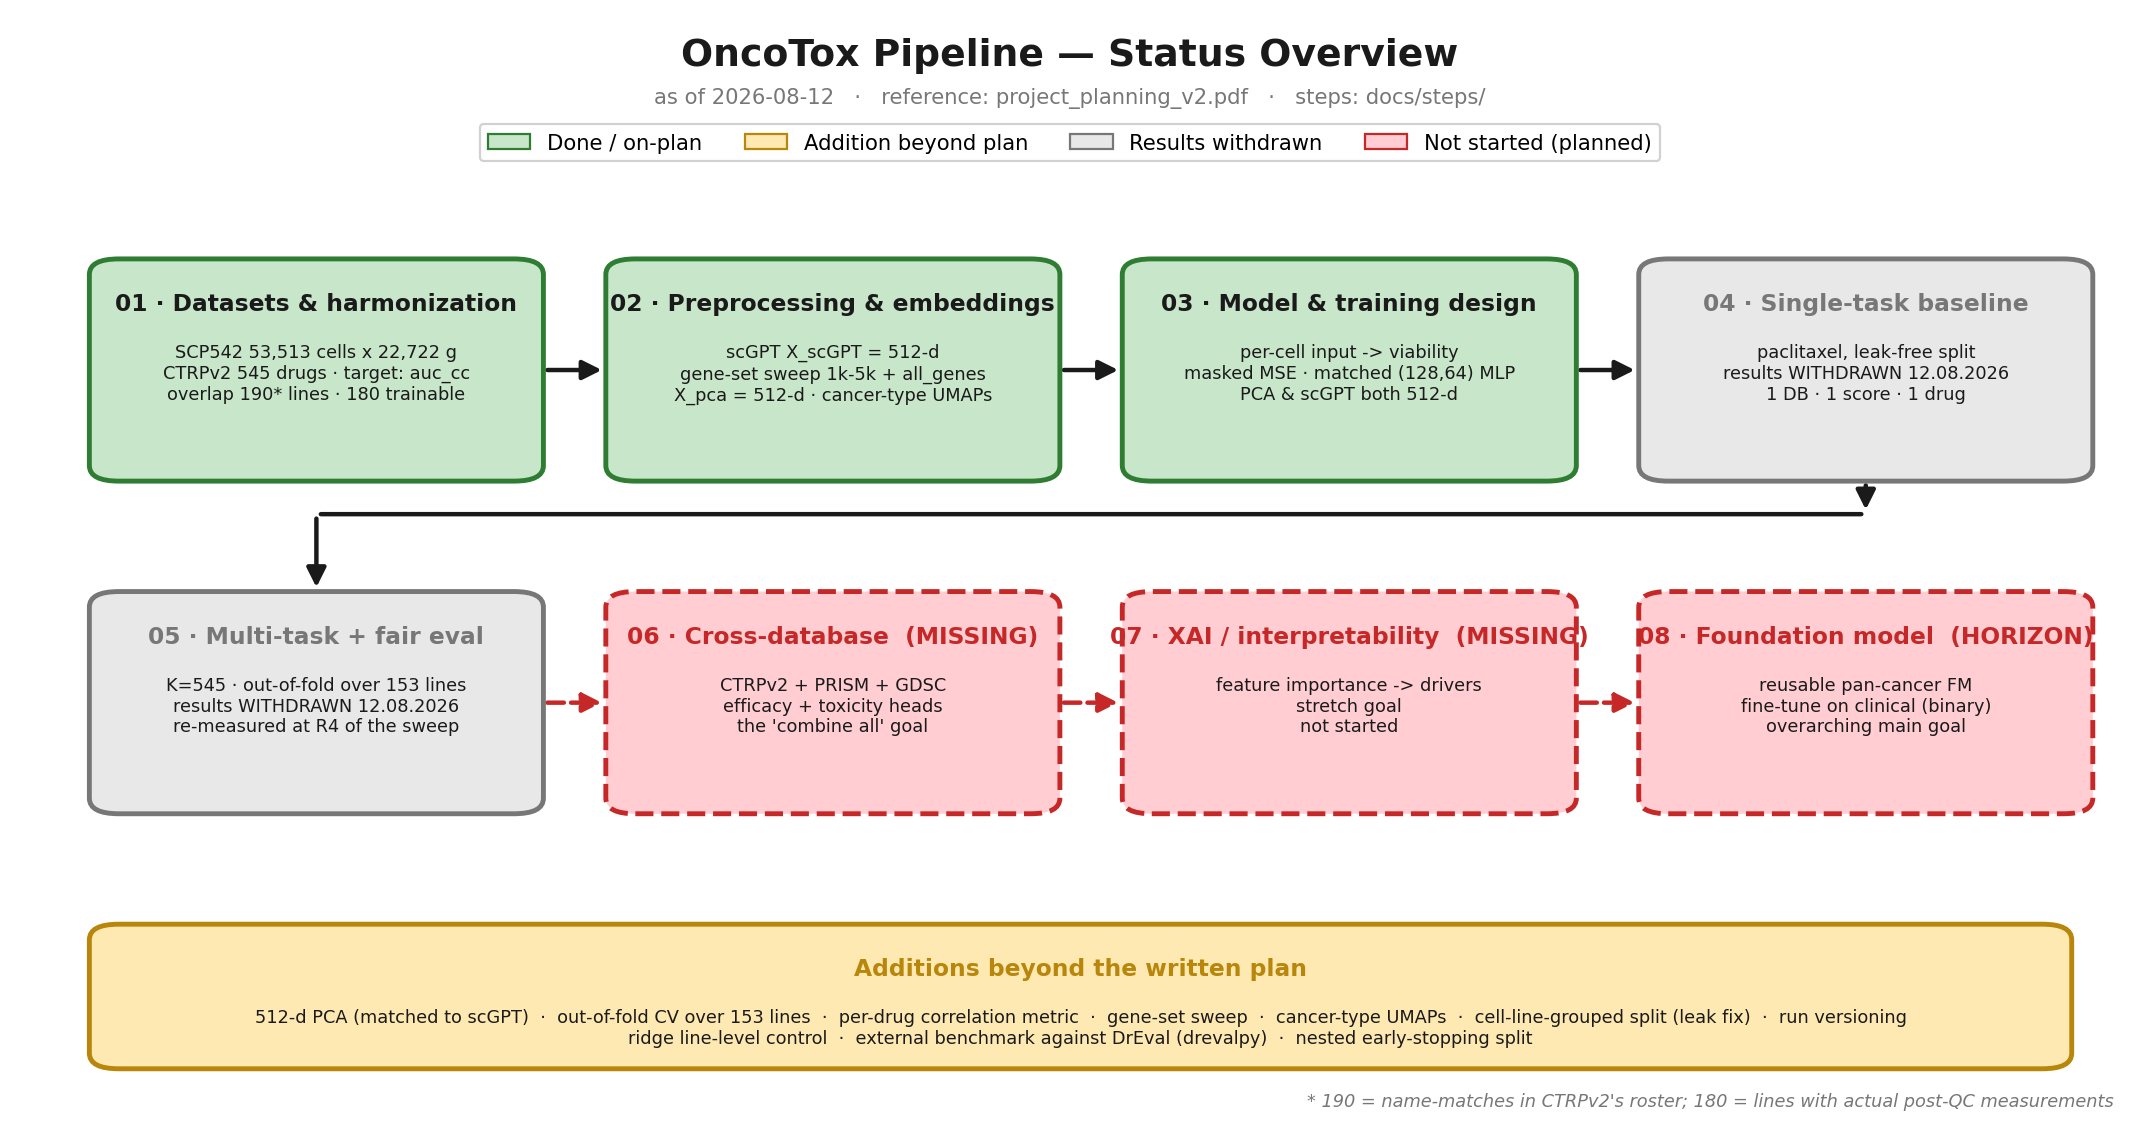
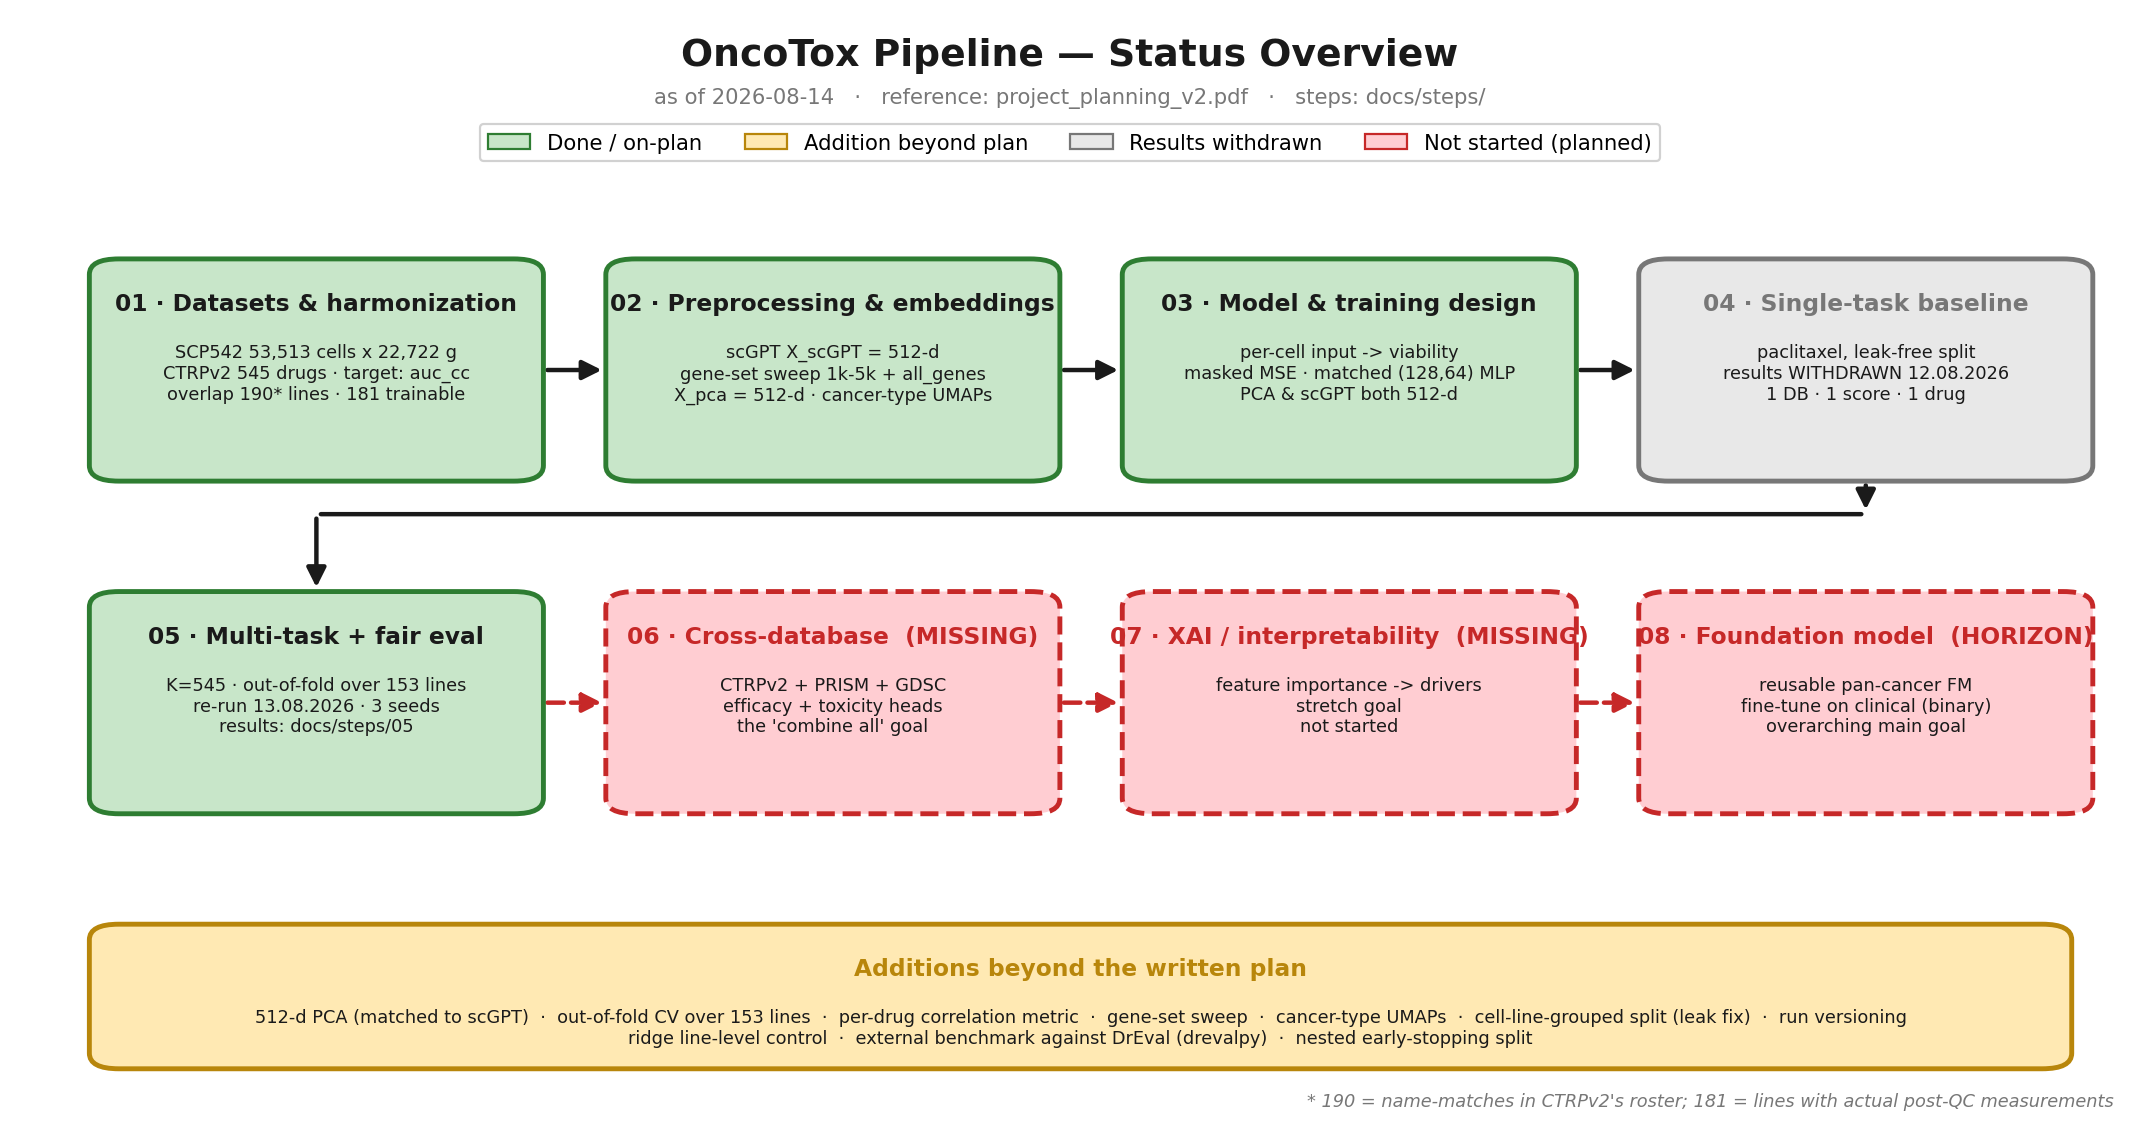
viz: the status figure said 180 lines and called stage 05 withdrawn -- both false
Regenerated pipeline_overview.png. Three corrections, and one of them was caught only by
rendering the figure and looking at it.

  * "180 trainable" -> 181, and DERIVED from splits/split_ctrp.csv rather than typed, for
    the same reason the two funnel tiers are derived: it was already wrong once. The new
    _n_trainable_lines() reads the committed frozen split, which is the artifact that
    defines the number rather than a copy of it.
  * The FOOTNOTE also said 180 -- "190 = name-matches; 180 = lines with actual post-QC
    measurements". My first edit fixed the box and missed this; rendering the figure and
    reading it is what found it. Now derived from the same constant, so they cannot drift
    apart again.
  * Stage 05 said "results WITHDRAWN 12.08.2026 / re-measured at R4 of the sweep" and was
    drawn grey. R4 happened: 4a sections A/C/D/E and 4b ran on the rebuilt panel, the
    auc_cc target and corrected early stopping over three seeds. Now green, and stating
    SCOPE and STATUS only -- "K=545 · out-of-fold over 153 lines · re-run 13.08.2026 · 3
    seeds · results: docs/steps/05". What the run showed stays in prose that can be cited
    and disputed, per this file's own audit rule against asserting results in a diagram.
  * Date line 2026-08-12 -> 2026-08-14.

Stage 04 stays grey and withdrawn, which is still true.

Not touched, and worth stating: loss_03_effect.png still self-skips, and the guard is
[…]

Changed region(s): [[0.0308, 0.4912, 0.2776, 0.7368]]

diff --git a/docs/make_figures.py b/docs/make_figures.py
@@ -34,7 +34,8 @@ Three rules, and every one of them was broken somewhere in this file when they w
 
 A fourth, from an unrelated defect class found the same day: **never hardcode a count in a label.**
 Derive it — ``len(PANEL)``, a row count, a config value. ``"the 8 heads"`` was already wrong when it
-was found (the rebuilt panel has 11), and ``180 trainable`` becomes 181 at the sweep. A number typed
+was found (the rebuilt panel has 11); ``180 trainable`` became 181 at the sweep and is now
+derived from the committed split (:func:`_n_trainable_lines`). A number typed
 into a string cannot be checked by anything.
 
 AUDIT AGAINST THOSE RULES — 12.08.2026, not yet applied
@@ -199,11 +200,30 @@ def _n_candidates() -> int:
     return len(pd.read_csv(PANEL_OUT / "literature_panel_candidates.csv"))
 
 
+def _n_trainable_lines() -> int:
+    """Cell lines with post-QC response measurements, read from the committed split.
+
+    Derived rather than typed for the reason the other two tiers are: it was hardcoded ``180`` and
+    became **181** on 13.08.2026, when ``ctrp_to_h5ad`` deduplicated the experiment table and resolved
+    the ``H292`` alias. A status figure carrying a stale count is worse than one carrying none,
+    because it is read as the current state of the project.
+
+    ``splits/split_ctrp.csv`` is the committed frozen split — one row per trainable line, 126 train /
+    27 val / 28 test — so it is the artifact that defines this number rather than a copy of it.
+    """
+    import pandas as pd
+
+    return len(pd.read_csv(ROOT / "splits" / "split_ctrp.csv"))
+
+
 #: The drug panel — the order every figure uses. Read from panel.csv, not maintained here.
 PANEL = _panel()
 
 #: The middle tier of the drug funnel — see :func:`_n_candidates` for why it is not 173.
 N_CANDIDATES = _n_candidates()
+
+#: Trainable cell lines — see :func:`_n_trainable_lines` for why it is not 180.
+N_LINES = _n_trainable_lines()
 
 
 def box(ax, x, y, w, h, title, lines, edge, fill, title_color=None, dashed=False,
@@ -234,7 +254,7 @@ def build_pipeline():
 
     ax.text(50, 98, "OncoTox Pipeline — Status Overview", ha="center", va="top",
             fontsize=17, fontweight="bold", color=INK)
-    ax.text(50, 93.5, "as of 2026-08-12   ·   reference: project_planning_v2.pdf   ·   steps: docs/steps/",
+    ax.text(50, 93.5, "as of 2026-08-14   ·   reference: project_planning_v2.pdf   ·   steps: docs/steps/",
             ha="center", va="top", fontsize=9.5, color=GREY)
     handles = [
         mpatches.Patch(facecolor=GREEN_FILL, edgecolor=GREEN, label="Done / on-plan"),
@@ -247,7 +267,7 @@ def build_pipeline():
 
     box(ax, XS[0], ROW_A, W, H, "01 · Datasets & harmonization",
         ["SCP542 53,513 cells x 22,722 g", "CTRPv2 545 drugs · target: auc_cc",
-         "overlap 190* lines · 180 trainable"], GREEN, GREEN_FILL)
+         f"overlap 190* lines · {N_LINES} trainable"], GREEN, GREEN_FILL)
     box(ax, XS[1], ROW_A, W, H, "02 · Preprocessing & embeddings",
         ["scGPT X_scGPT = 512-d", "gene-set sweep 1k-5k + all_genes",
          "X_pca = 512-d · cancer-type UMAPs"], GREEN, GREEN_FILL)
@@ -263,9 +283,13 @@ def build_pipeline():
         ["paclitaxel, leak-free split", "results WITHDRAWN 12.08.2026",
          "1 DB · 1 score · 1 drug"], GREY, GREY_FILL, title_color=GREY)
 
+    # Re-measured 13.-14.08.2026 and no longer withdrawn: 4a sections A/C/D/E and 4b ran on the
+    # rebuilt 11-drug panel, the auc_cc target and the corrected early stopping, over three seeds.
+    # The box states SCOPE and STATUS only -- what the run showed belongs in prose that can be cited
+    # and disputed, not in a stage label of a pipeline diagram (this file's own audit rule).
     box(ax, XS[0], ROW_B, W, H, "05 · Multi-task + fair eval",
-        ["K=545 · out-of-fold over 153 lines", "results WITHDRAWN 12.08.2026",
-         "re-measured at R4 of the sweep"], GREY, GREY_FILL, title_color=GREY)
+        ["K=545 · out-of-fold over 153 lines", "re-run 13.08.2026 · 3 seeds",
+         "results: docs/steps/05"], GREEN, GREEN_FILL)
     box(ax, XS[1], ROW_B, W, H, "06 · Cross-database  (MISSING)",
         ["CTRPv2 + PRISM + GDSC", "efficacy + toxicity heads",
          "the 'combine all' goal"], RED, RED_FILL, title_color=RED, dashed=True)
@@ -298,7 +322,7 @@ def build_pipeline():
     for i in range(3):
         arrow(ax, XS[i] + W, ROW_B + H / 2, XS[i + 1], ROW_B + H / 2, color=RED, dashed=True)
 
-    ax.text(99.5, 1.2, "* 190 = name-matches in CTRPv2's roster; 180 = lines with actual post-QC measurements",
+    ax.text(99.5, 1.2, f"* 190 = name-matches in CTRPv2's roster; {N_LINES} = lines with actual post-QC measurements",
             ha="right", va="bottom", fontsize=8, color=GREY, style="italic")
 
     out = FIG / "pipeline_overview.png"
